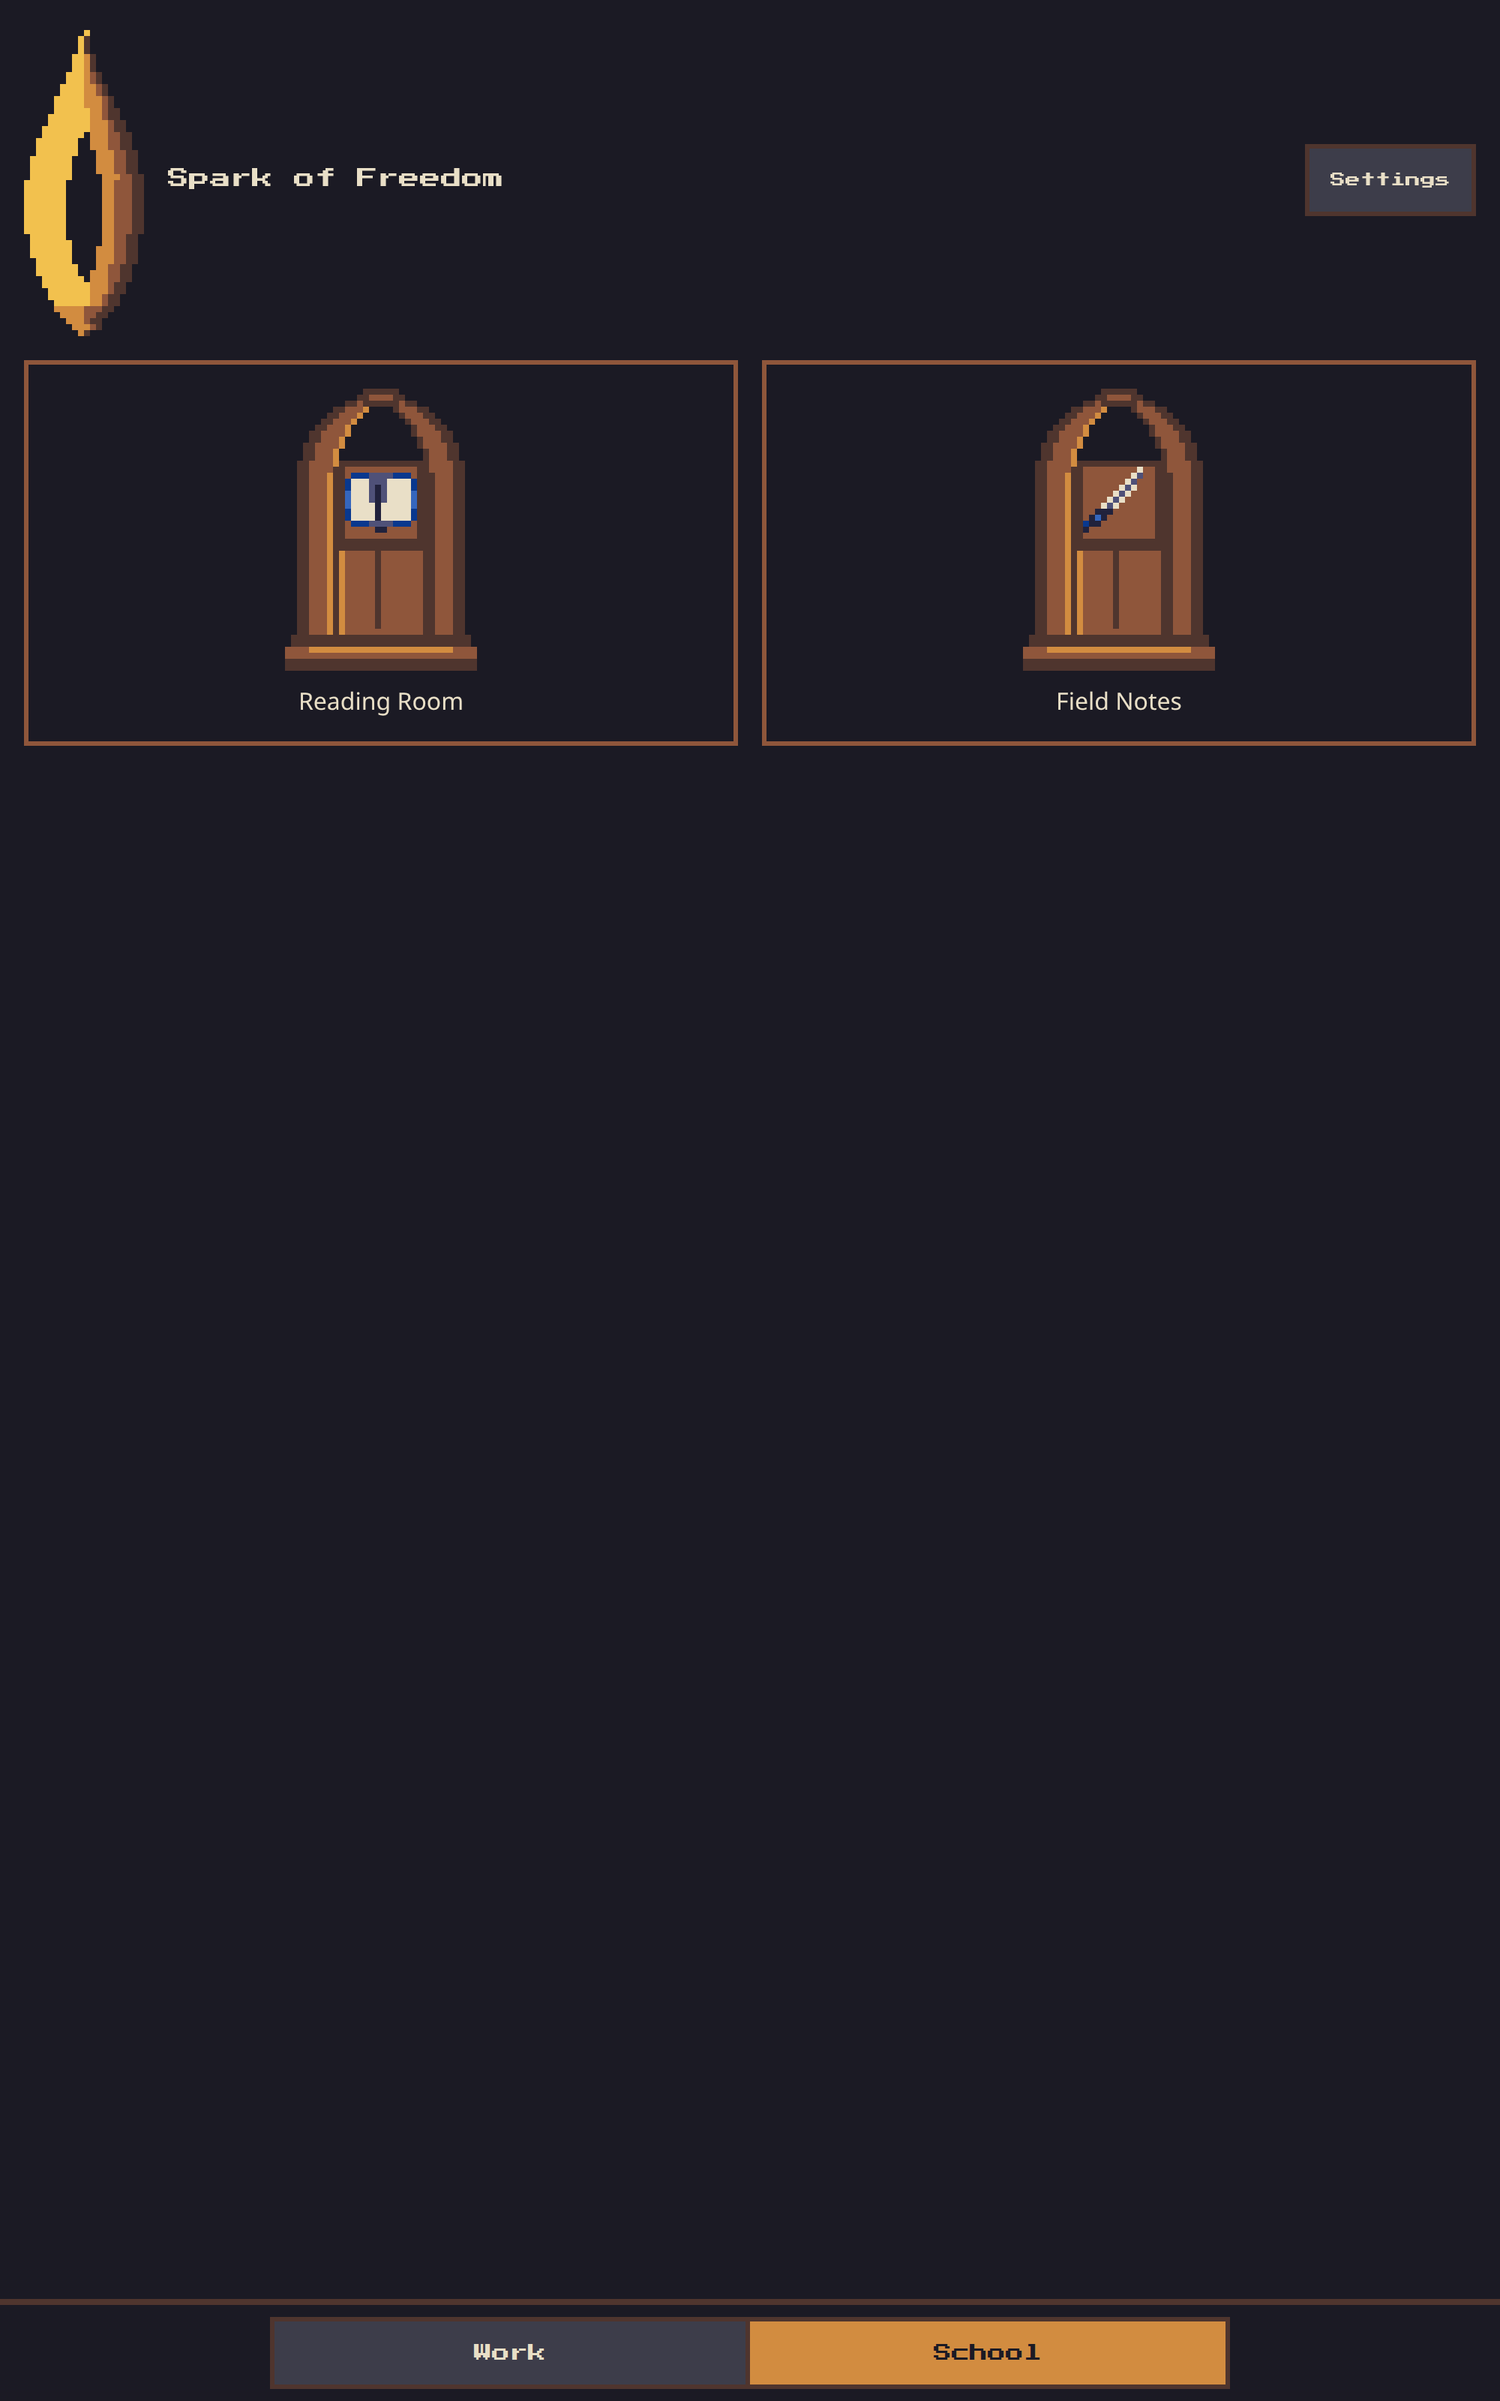
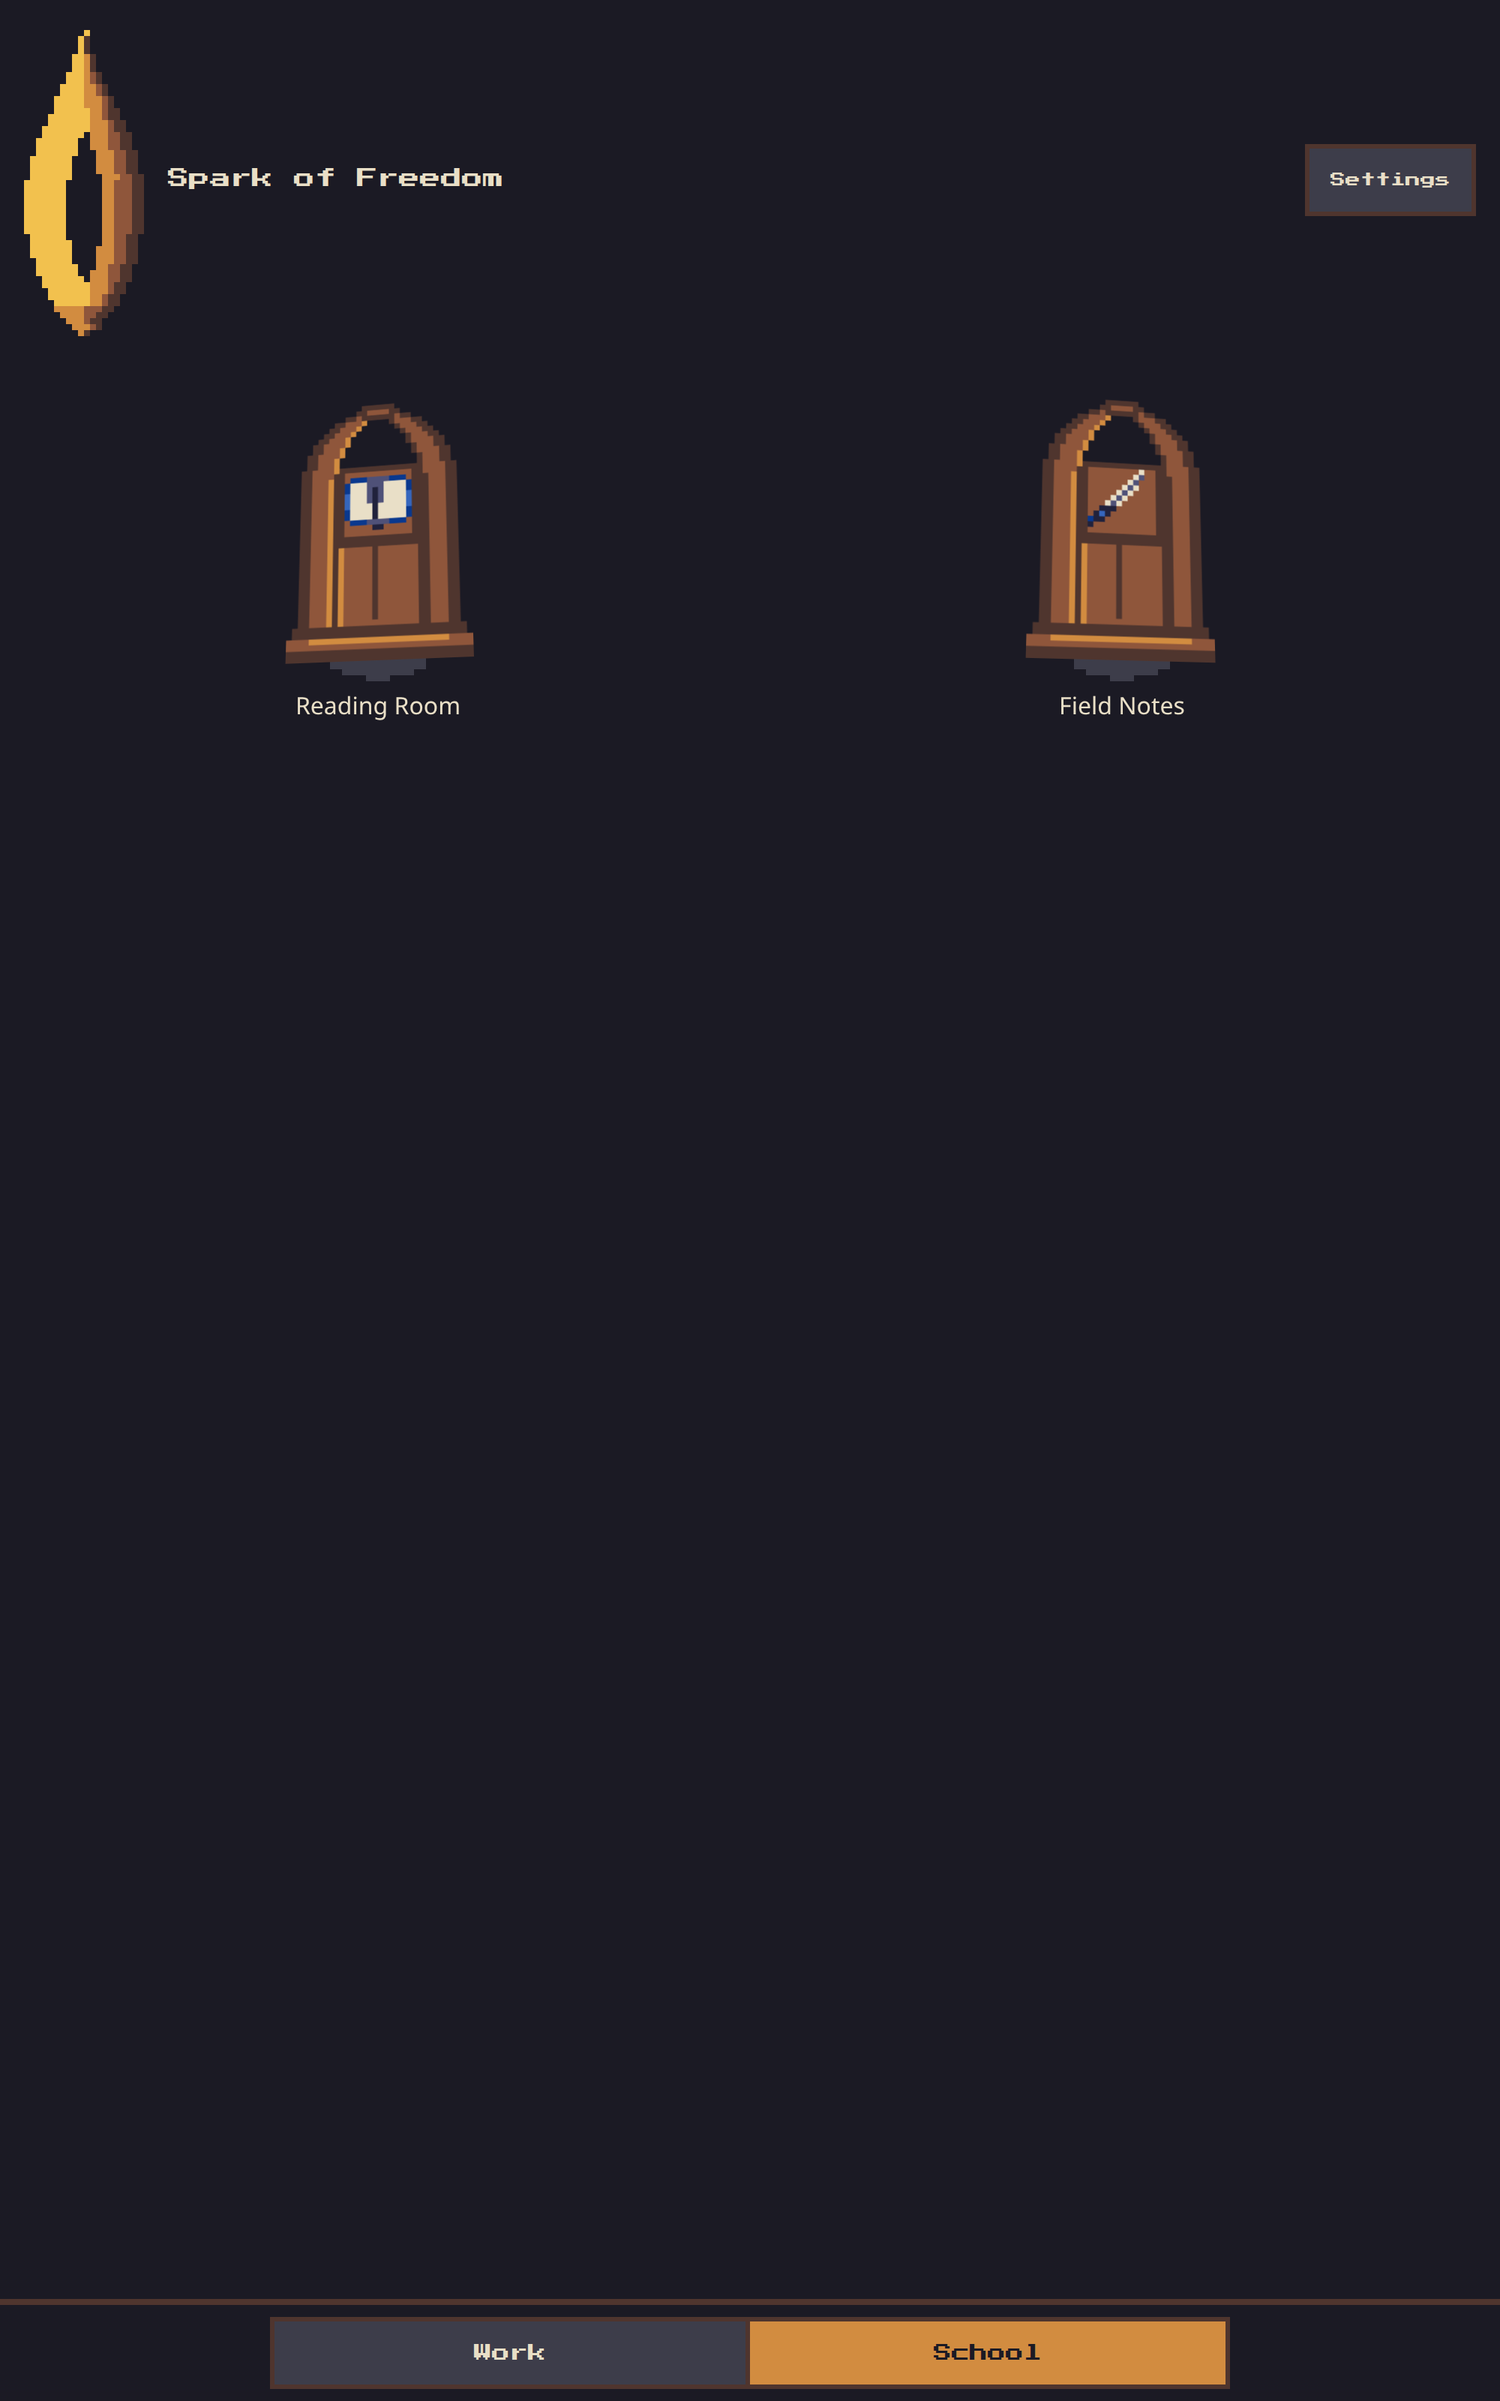
Float the hall doors in the dark and open them into the next page.
The doors leave the card grid for a night void, with a pixel contact mark and a two-beat open that finishes before the route changes.

diff --git a/client/src/index.css b/client/src/index.css
@@ -166,6 +166,11 @@ a.text-link {
   display: none;
 }
 
+.stage {
+  background: var(--night);
+  color: var(--paper);
+}
+
 .stage-head {
   display: flex;
   align-items: center;
@@ -191,25 +196,84 @@ a.text-link {
 .door-grid {
   display: grid;
   grid-template-columns: repeat(2, minmax(0, 1fr));
-  gap: 16px;
+  gap: 36px 24px;
+  align-items: end;
+  justify-items: center;
   list-style: none;
   margin: 0;
-  padding: 0;
+  padding: 8px 0 12px;
 }
 
 .door {
-  width: 100%;
+  width: auto;
   background: transparent;
-  color: inherit;
-  border: 3px solid var(--wood);
+  color: var(--paper);
+  border: 0;
+  display: flex;
+  flex-direction: column;
+  align-items: center;
+  padding: 0;
+}
+
+.door-stage {
+  display: flex;
+  flex-direction: column;
+  align-items: center;
+  perspective: 640px;
+}
+
+.door-figure {
   display: flex;
   flex-direction: column;
   align-items: center;
   gap: 10px;
-  padding: 12px 8px 16px;
+  transform: rotateX(18deg);
+  transform-origin: 50% 100%;
+}
+
+.door-grid li:nth-child(3n + 1) .door-figure {
+  transform: rotateX(18deg) rotateY(-11deg);
+}
+
+.door-grid li:nth-child(3n + 2) .door-figure {
+  transform: rotateX(16deg) rotateY(9deg);
+}
+
+.door-grid li:nth-child(3n) .door-figure {
+  transform: rotateX(18deg) rotateY(-4deg);
+}
+
+.ground-contact {
+  display: block;
+  margin-top: -10px;
+}
+
+
+@media (prefers-reduced-motion: no-preference) {
+  .door-figure {
+    transition: transform 420ms steps(3, start);
+  }
+}
+
+.door-grid:has([data-phase="ajar"]) .door:not([data-phase="ajar"]) {
+  opacity: 0.4;
+}
+
+.door-grid:has([data-phase="through"]) .door:not([data-phase="through"]) {
+  opacity: 0;
+}
+
+.door-grid li .door[data-phase="through"] {
+  z-index: 3;
+}
+
+.door-grid li .door[data-phase="through"] .door-figure {
+  transform: rotateX(2deg) rotateY(0deg) scale(3.3) translateY(6%);
+  transition: none;
 }
 
 .door-name {
+  margin-top: 6px;
   font-family: system-ui, sans-serif;
   font-size: 16px;
   line-height: 1.3;
@@ -264,8 +328,8 @@ a.text-link {
   margin-left: 300px;
   padding: 0;
   min-height: calc(100vh - 72px);
-  background: var(--paper);
-  color: var(--night);
+  background: var(--night);
+  color: var(--paper);
 }
 
 .app[data-layout="desktop"] .rail {
@@ -291,8 +355,8 @@ a.text-link {
 
 .app[data-layout="desktop"] .stage {
   flex: 1;
-  background: var(--paper);
-  color: var(--night);
+  background: var(--night);
+  color: var(--paper);
   padding: 36px 40px 28px;
 }
 
@@ -315,7 +379,7 @@ a.text-link {
 }
 
 .app[data-layout="desktop"] .door {
-  background: var(--paper);
+  background: transparent;
 }
 
 .app[data-layout="desktop"] .offline {
@@ -324,8 +388,8 @@ a.text-link {
 
 .app[data-layout="desktop"] .toggle-dock {
   margin-left: 300px;
-  background: var(--paper);
-  border-top: 4px solid var(--wood);
+  background: var(--night);
+  border-top: 4px solid var(--darkwood);
 }
 
 .app[data-layout="desktop"] .toggle {
@@ -333,8 +397,8 @@ a.text-link {
 }
 
 .app[data-layout="desktop"] .toggle [role="tab"] {
-  background: var(--paper);
-  color: var(--night);
+  background: var(--slate);
+  color: var(--paper);
 }
 
 .app[data-layout="desktop"] .toggle [aria-selected="true"] {

diff --git a/client/src/components/DoorButton.tsx b/client/src/components/DoorButton.tsx
@@ -1,23 +1,34 @@
 import { useEffect, useMemo, useRef, useState } from "react";
 import { Sprite } from "../design/Sprite";
-import { archDoorClosed, archDoorOpen, closedLogoSlot, openLogoSlot } from "../design/sprites";
+import {
+  archDoorClosed,
+  archDoorOpen,
+  closedLogoSlot,
+  groundContact,
+  openLogoSlot,
+} from "../design/sprites";
 import type { Door } from "../fixtures/doors";
 import { useReducedMotion } from "../hooks/useReducedMotion";
+
+type Phase = "closed" | "ajar" | "through";
 
 type DoorButtonProps = {
   door: Door;
   onOpen: (door: Door) => void;
 };
 
+const AJAR_MS = 560;
+const ENTER_MS = 1560;
+
 export function DoorButton({ door, onOpen }: DoorButtonProps) {
   const reduce = useReducedMotion();
-  const [openFrame, setOpenFrame] = useState(false);
-  const timer = useRef<number | null>(null);
+  const [phase, setPhase] = useState<Phase>("closed");
+  const timers = useRef<number[]>([]);
   const busy = useRef(false);
 
   useEffect(() => {
     return () => {
-      if (timer.current !== null) window.clearTimeout(timer.current);
+      for (const id of timers.current) window.clearTimeout(id);
     };
   }, []);
 
@@ -28,25 +39,40 @@ export function DoorButton({ door, onOpen }: DoorButtonProps) {
       onOpen(door);
       return;
     }
-    setOpenFrame(true);
-    timer.current = window.setTimeout(() => onOpen(door), 240);
+    setPhase("ajar");
+    timers.current.push(window.setTimeout(() => setPhase("through"), AJAR_MS));
+    timers.current.push(window.setTimeout(() => onOpen(door), ENTER_MS));
   }
 
-  const slot = openFrame ? openLogoSlot : closedLogoSlot;
+  const open = phase !== "closed";
+  const slot = open ? openLogoSlot : closedLogoSlot;
   const layers = useMemo(
     () => [{ rows: door.logo, x: slot.x, y: slot.y }],
     [door.logo, slot.x, slot.y],
   );
 
   return (
-    <button type="button" className="door" onClick={activate} aria-label={`Open ${door.name}`}>
-      <Sprite
-        rows={openFrame ? archDoorOpen : archDoorClosed}
-        scale={4}
-        title=""
-        layers={layers}
-      />
-      <span className="door-name">{door.name}</span>
+    <button
+      type="button"
+      className="door"
+      data-phase={phase}
+      onClick={activate}
+      aria-label={`Open ${door.name}`}
+    >
+      <span className="door-stage">
+        <span className="door-figure">
+          <Sprite
+            rows={open ? archDoorOpen : archDoorClosed}
+            scale={4}
+            title=""
+            layers={layers}
+          />
+        </span>
+        <span className="ground-contact">
+          <Sprite rows={groundContact} scale={4} title="" />
+        </span>
+        <span className="door-name">{door.name}</span>
+      </span>
     </button>
   );
 }

diff --git a/client/e2e/shell.spec.ts b/client/e2e/shell.spec.ts
@@ -21,12 +21,21 @@ test("splash, work hall, school hall, and a work door", async ({ page }, info) =
   await expect(page).toHaveURL(/\/home$/);
   await expect(page.getByRole("tab", { name: "Work" })).toHaveAttribute("aria-selected", "true");
   await expect(page.getByRole("button", { name: /Hale Design Lab/ })).toBeVisible();
+  const hall = page.locator("[data-hall=void]");
+  await expect(hall).toBeVisible();
+  await expect(hall).toHaveCSS("background-color", "rgb(27, 26, 36)");
+  const door = page.getByRole("button", { name: /Hale Design Lab/ });
+  await expect(door).toHaveCSS("background-color", "rgba(0, 0, 0, 0)");
+  await expect(page.locator(".ground-contact").first()).toBeVisible();
   await page.screenshot({ path: shot(`home-work-${proj}`) });
 
   if (proj === "tablet-portrait") {
     await page.evaluate(() => {
       document.documentElement.style.filter = "grayscale(1)";
     });
+    await expect(page.getByRole("button", { name: /Hale Design Lab/ })).toBeVisible();
+    await expect(page.getByRole("tab", { name: "Work" })).toBeVisible();
+    await expect(page.locator(".ground-contact").first()).toBeVisible();
     await page.screenshot({ path: shot("home-work-tablet-portrait-grayscale") });
     await page.evaluate(() => {
       document.documentElement.style.filter = "";
@@ -43,6 +52,22 @@ test("splash, work hall, school hall, and a work door", async ({ page }, info) =
   await expect(page.getByRole("heading", { name: "CEO chat — PR #2" })).toBeVisible();
   await page.getByRole("link", { name: "Back" }).click();
   await expect(page).toHaveURL(/\/home$/);
+});
+
+test("door opens, then the route changes", async ({ page }, info) => {
+  const proj = info.project.name;
+  await page.emulateMedia({ reducedMotion: "no-preference" });
+  await page.goto("/home");
+  await page.getByRole("button", { name: /Hale Design Lab/ }).click();
+  const opening = page.getByRole("button", { name: /Hale Design Lab/ });
+  await expect(opening).toHaveAttribute("data-phase", "ajar");
+  await expect(page).toHaveURL(/\/home$/);
+  await page.screenshot({ path: shot(`door-open-mid-${proj}`) });
+  await expect(opening).toHaveAttribute("data-phase", "through");
+  await expect(page).toHaveURL(/\/home$/);
+  await page.screenshot({ path: shot(`door-open-end-${proj}`) });
+  await expect(page).toHaveURL(/\/team\/hale-design-lab$/, { timeout: 4000 });
+  await expect(page.getByRole("heading", { name: "CEO chat — PR #2" })).toBeVisible();
 });
 
 test("a school door opens the learning stub", async ({ page }) => {

diff --git a/client/src/design/sprites/index.ts b/client/src/design/sprites/index.ts
@@ -6,6 +6,7 @@ import { agent } from "./agent";
 import { logoBook, logoCloud, logoHale, logoLocal, logoQuill } from "./logos";
 import { offlineCloud } from "./offlineCloud";
 import { paperSheet } from "./paper";
+import { groundContact } from "./groundContact";
 
 export type { SpriteGrid } from "./types";
 export { flame } from "./flame";
@@ -15,6 +16,7 @@ export { agent } from "./agent";
 export { logoHale, logoCloud, logoLocal, logoBook, logoQuill } from "./logos";
 export { offlineCloud } from "./offlineCloud";
 export { paperSheet } from "./paper";
+export { groundContact } from "./groundContact";
 
 export const spriteCatalog: { name: string; rows: SpriteGrid }[] = [
   { name: "flame", rows: flame },
@@ -31,4 +33,5 @@ export const spriteCatalog: { name: string; rows: SpriteGrid }[] = [
   { name: "logo quill", rows: logoQuill },
   { name: "offline cloud", rows: offlineCloud },
   { name: "paper", rows: paperSheet },
+  { name: "ground contact", rows: groundContact },
 ];

diff --git a/client/src/design/sprites/groundContact.ts b/client/src/design/sprites/groundContact.ts
@@ -1,0 +1,11 @@
+import type { SpriteGrid } from "./types";
+
+/** Flat contact under a floating door. Slate on night so it still reads in grayscale. */
+export const groundContact: SpriteGrid = [
+  "..............ssss..............",
+  "..........ssssssssssss..........",
+  "........ssssssssssssssss........",
+  "........ssssssssssssssss........",
+  "..........ssssssssssss..........",
+  "..............ssss..............",
+];

diff --git a/client/src/routes/Home.tsx b/client/src/routes/Home.tsx
@@ -52,7 +52,7 @@ export function Home({ doors = fixtureDoors }: HomeProps) {
             Settings
           </Link>
         </aside>
-        <main className="stage">
+        <main className="stage" data-hall="void">
           <header className="stage-head">
             <div className="compact-brand">
               <Sprite rows={flame} scale={4} title="Spark of Freedom flame" />
